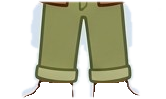
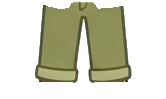
Oblékání: tvar oblečení se nedeformuje, základní věci předoznačené, malý štítek postupu, šatník se vejde na každou obrazovku, kalhoty bez tkaniček

diff --git a/src/app/prvouka/PrvoukaObleceni.tsx b/src/app/prvouka/PrvoukaObleceni.tsx
@@ -1,6 +1,6 @@
 import React, { useEffect, useMemo, useState } from 'react';
 import { GameResultScreen } from '../components/GameResultScreen';
-import { PrvoukaFeedbackOverlay, PrvoukaProgress } from './PrvoukaKit';
+import { PrvoukaFeedbackOverlay } from './PrvoukaKit';
 
 /**
  * Oblékni se podle počasí (Orientace v čase) – šatník jako v oblékačkách.
@@ -68,10 +68,10 @@ type Lin = { sx: number; cx: number; hx: number; sy: number; cy: number; hy: num
 const GROUP: Record<Slot, Lin> = {
   hlava: { sx: 1.05, cx: 102, hx: 120, sy: 1.05, cy: 128, hy: 145 },
   krk: { sx: 1.05, cx: 102, hx: 120, sy: 1.05, cy: 128, hy: 145 },
-  vrsek: { sx: 1.06, cx: 105, hx: 120, sy: 1.23, cy: 163, hy: 207 },
-  bunda: { sx: 1.06, cx: 105, hx: 120, sy: 1.23, cy: 163, hy: 207 },
-  ruce: { sx: 1.06, cx: 105, hx: 120, sy: 1.23, cy: 163, hy: 207 },
-  destnik: { sx: 1.06, cx: 105, hx: 120, sy: 1.23, cy: 163, hy: 207 },
+  vrsek: { sx: 1.2, cx: 105, hx: 120, sy: 1.2, cy: 163, hy: 207 },
+  bunda: { sx: 1.2, cx: 105, hx: 120, sy: 1.2, cy: 163, hy: 207 },
+  ruce: { sx: 1.2, cx: 105, hx: 120, sy: 1.2, cy: 163, hy: 207 },
+  destnik: { sx: 1.2, cx: 105, hx: 120, sy: 1.2, cy: 163, hy: 207 },
   dolu: { sx: 1.06, cx: 104, hx: 120, sy: 1.06, cy: 262, hy: 322 },
   boty: { sx: 1.06, cx: 104, hx: 120, sy: 1.06, cy: 392, hy: 481 },
 };
@@ -105,6 +105,8 @@ interface Weather { id: WeatherId; label: string; sky: string; temp: string; ask
 
 // Co má postava na sobě vždycky (Sam žluté tričko, kraťasy, sandály) – vybrat to je totéž jako nic.
 /** Bundy a pláštěnka jsou ve stejné části jako trička (nahoru se vybírá jen jedna věc), kontrola je ale bere jako bundu. */
+/** Co má postava na sobě od začátku – v šatníku je to rovnou označené. */
+const WEARS: Record<'sam' | 'hanka', Partial<Record<Slot, string>>> = { sam: { vrsek: 'zlute-triko', dolu: 'kratasy', boty: 'sandaly' }, hanka: { vrsek: 'cervene-triko', dolu: 'kratasy', boty: 'tenisky' } };
 const JACKETS = ['bunda', 'zimni-bunda', 'plastenka'];
 const norm = (o: Outfit, who: Who): Outfit => { const b = CHARS[who].baseIds; const r: Outfit = { ...o }; (Object.keys(b) as Slot[]).forEach((k) => { if (r[k] === b[k]) r[k] = undefined; }); if (who === 'hanka' && !r.boty) r.boty = 'tenisky'; if (r.vrsek && JACKETS.includes(r.vrsek)) { r.bunda = r.vrsek; r.vrsek = undefined; } return r; };
 const warmTop = (o: Outfit) => o.vrsek === 'mikina' || Boolean(o.bunda);
@@ -192,7 +194,8 @@ export function PrvoukaObleceni({ settings = {} }: { settings?: Record<string, a
   const [clean, setClean] = useState(0);
   const W = WEATHER[rounds[ri] ?? 'prsi'];
 
-  const toggle = (it: Item) => setOutfit((o) => ({ ...o, [it.slot]: o[it.slot] === it.id ? undefined : it.id }));
+  // Základní věc (tričko, kraťasy, sandály…) nejde „svléknout“ – kliknutí na ni jen vrátí základ.
+  const toggle = (it: Item) => setOutfit((o) => ({ ...o, [it.slot]: o[it.slot] === it.id || WEARS[who][it.slot] === it.id ? undefined : it.id }));
   const goOut = () => {
     const problem = W.check(norm(outfit, who), C);
     if (problem) { setMistakes((m) => m + 1); setFeedback({ isCorrect: false, hint: problem }); return; }
@@ -230,6 +233,9 @@ export function PrvoukaObleceni({ settings = {} }: { settings?: Record<string, a
               <span className="text-base md:text-lg font-bold">{W.temp}</span>
             </div>
           ) : null}
+          {!free && rounds.length > 1 ? (
+            <div className="absolute right-4 top-3 rounded-full bg-white/85 px-3 py-1.5 text-sm font-bold tabular-nums" style={{ color: INK }}>{ri + 1} / {rounds.length}</div>
+          ) : null}
           <div className="flex-1 min-h-0 w-full flex items-center justify-center pt-14 pb-2">
           <div className="relative h-full max-h-[620px]" style={{ aspectRatio: `${C.w} / ${C.h}` }}>
             <img src={`${ART}/${baseSrc}.png`} alt={C.kdo} className="absolute" style={{ left: `${(bx0 / C.w) * 100}%`, top: `${(by0 / C.h) * 100}%`, width: `${((bx1 - bx0) / C.w) * 100}%`, height: `${((by1 - by0) / C.h) * 100}%` }} draggable={false} />
@@ -237,7 +243,7 @@ export function PrvoukaObleceni({ settings = {} }: { settings?: Record<string, a
               const [x0, y0, x1, y1] = (it.owner !== who && it.boxFor?.[who] && it.pieces.length === 1) ? it.boxFor[who]! : mapBox(p.box, it.slot, it.owner, who);
               return (
                 <img key={it.id + i} src={`${ART}/${(it.owner !== who && it.srcFor?.[who]) || p.src}.png`} alt="" draggable={false} className="absolute"
-                  style={{ left: `${(x0 / C.w) * 100}%`, top: `${(y0 / C.h) * 100}%`, width: `${((x1 - x0) / C.w) * 100}%`, height: `${((y1 - y0) / C.h) * 100}%`, zIndex: p.z, animation: 'oblIn .3s ease' }} />
+                  style={{ left: `${(x0 / C.w) * 100}%`, ...(it.slot === 'boty' ? { bottom: `${(1 - y1 / C.h) * 100}%` } : { top: `${(y0 / C.h) * 100}%` }), width: `${((x1 - x0) / C.w) * 100}%`, height: 'auto', zIndex: p.z, animation: 'oblIn .3s ease' }} />
               );
             }))}
           </div>
@@ -261,19 +267,19 @@ export function PrvoukaObleceni({ settings = {} }: { settings?: Record<string, a
               </button>
             ))}
           </div>
-          <div className="grid grid-cols-1 sm:grid-cols-2 gap-2 content-start">
+          <div className="grid grid-cols-1 sm:grid-cols-2 gap-2 content-start min-h-0 md:overflow-y-auto">
           {SHELVES.map((sh) => (
             <div key={sh.title} className={`rounded-2xl bg-white/70 p-2 ${sh.wide ? 'sm:col-span-2' : ''}`} style={{ border: `2px solid ${INK}1a` }}>
               <p className="text-[11px] font-bold uppercase tracking-wider mb-1" style={{ color: '#56628a' }}>{sh.title}</p>
               <div className="flex flex-wrap gap-1.5">
                 {items.filter((it) => sh.slots.includes(it.slot)).map((it) => {
-                  const on = outfit[it.slot] === it.id;
+                  const on = outfit[it.slot] === it.id || (!outfit[it.slot] && WEARS[who][it.slot] === it.id);
                   return (
                     <button key={it.id} type="button" onClick={() => toggle(it)} aria-pressed={on}
-                      className="flex flex-col items-center justify-end gap-0.5 rounded-xl bg-white w-[86px] h-[92px] xl:w-[100px] xl:h-[106px] p-1 transition-transform hover:-translate-y-0.5"
-                      style={{ border: `2px solid ${on ? '#4f46e5' : '#d6def0'}`, boxShadow: on ? '0 0 0 3px #c7c4ff' : 'none' }}>
-                      <img src={`${ART}/${it.thumb}.png`} alt="" className="max-h-[54px] max-w-[72px] xl:max-h-[64px] xl:max-w-[84px] object-contain" draggable={false} />
-                      <span className="text-[11px] xl:text-xs font-bold leading-tight text-center" style={{ color: INK }}>{it.name}</span>
+                      className="flex flex-col items-center justify-end gap-0.5 rounded-xl bg-white p-1 transition-transform hover:-translate-y-0.5"
+                      style={{ width: 'clamp(60px, 9.4vh, 100px)', height: 'clamp(64px, 10vh, 106px)', border: `2px solid ${on ? '#4f46e5' : '#d6def0'}`, boxShadow: on ? '0 0 0 3px #c7c4ff' : 'none' }}>
+                      <img src={`${ART}/${it.thumb}.png`} alt="" className="object-contain" style={{ maxHeight: 'clamp(36px, 6vh, 64px)', maxWidth: '85%' }} draggable={false} />
+                      <span className="text-[10px] xl:text-[11px] font-bold leading-tight text-center" style={{ color: INK }}>{it.name}</span>
                     </button>
                   );
                 })}
@@ -283,7 +289,6 @@ export function PrvoukaObleceni({ settings = {} }: { settings?: Record<string, a
           </div>
         </div>
       </div>
-      {!free ? <PrvoukaProgress current={ri} total={rounds.length} lives={0} maxLives={0} /> : null}
       <style>{'@keyframes oblIn{from{opacity:0;transform:translateY(-6px)}to{opacity:1;transform:none}}'}</style>
       {feedback ? <PrvoukaFeedbackOverlay isCorrect={feedback.isCorrect} hint={feedback.hint} info={feedback.info} onComplete={afterFeedback} /> : null}
       {finished ? <GameResultScreen isSuccess onContinue={restart} successText="Výborně!" showContinueButton displayType="gameComplete" score={{ correct: clean, total: rounds.length }} /> : null}
